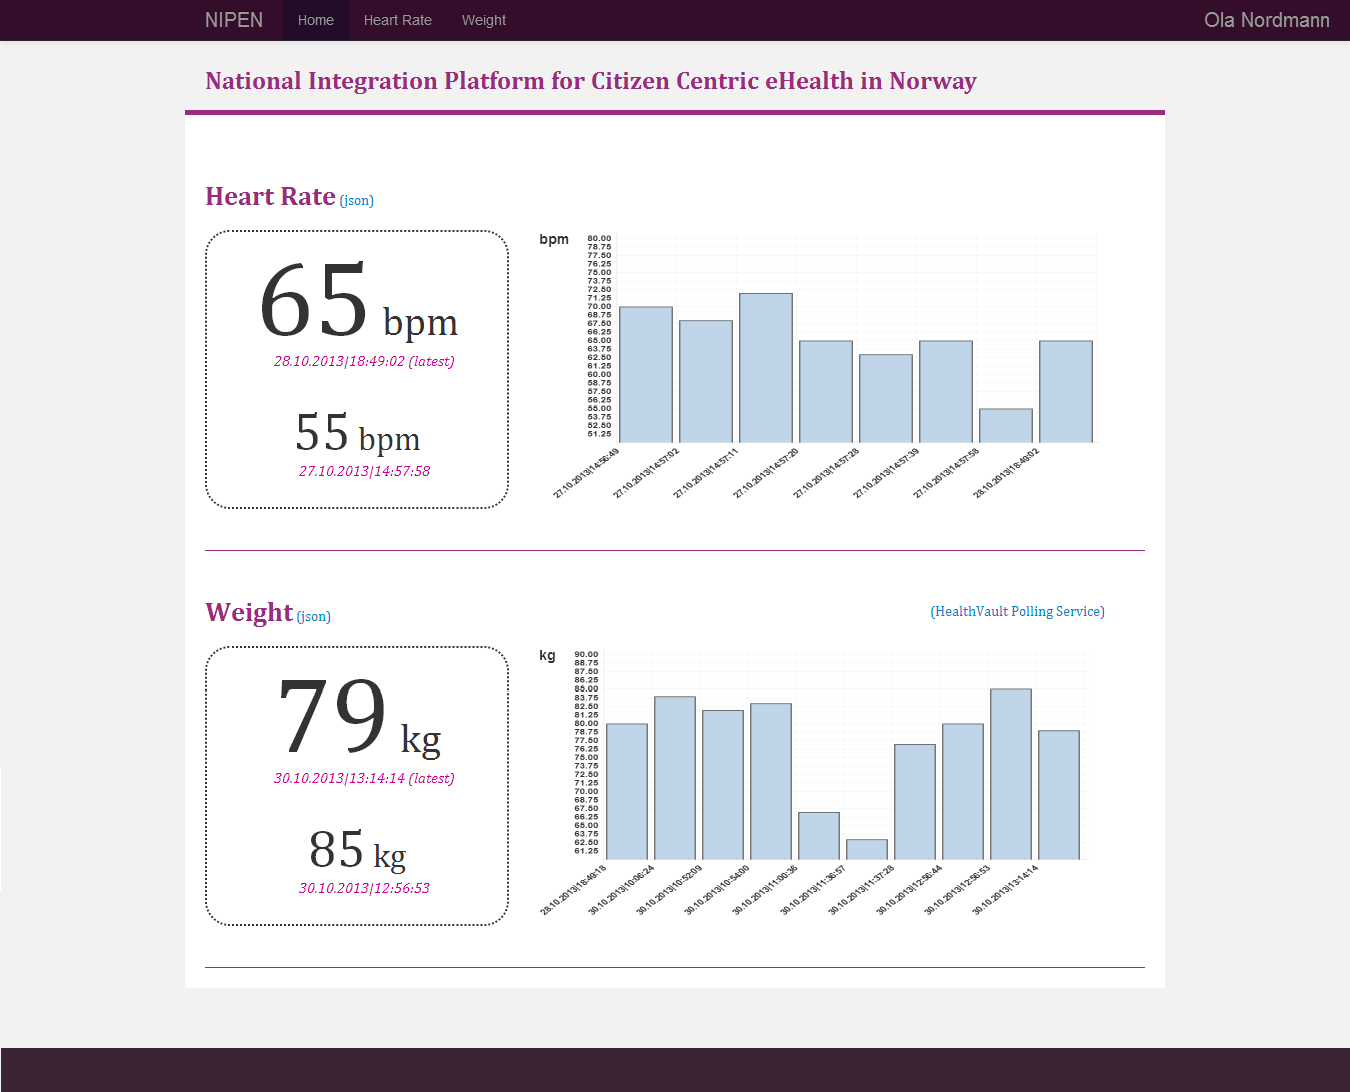
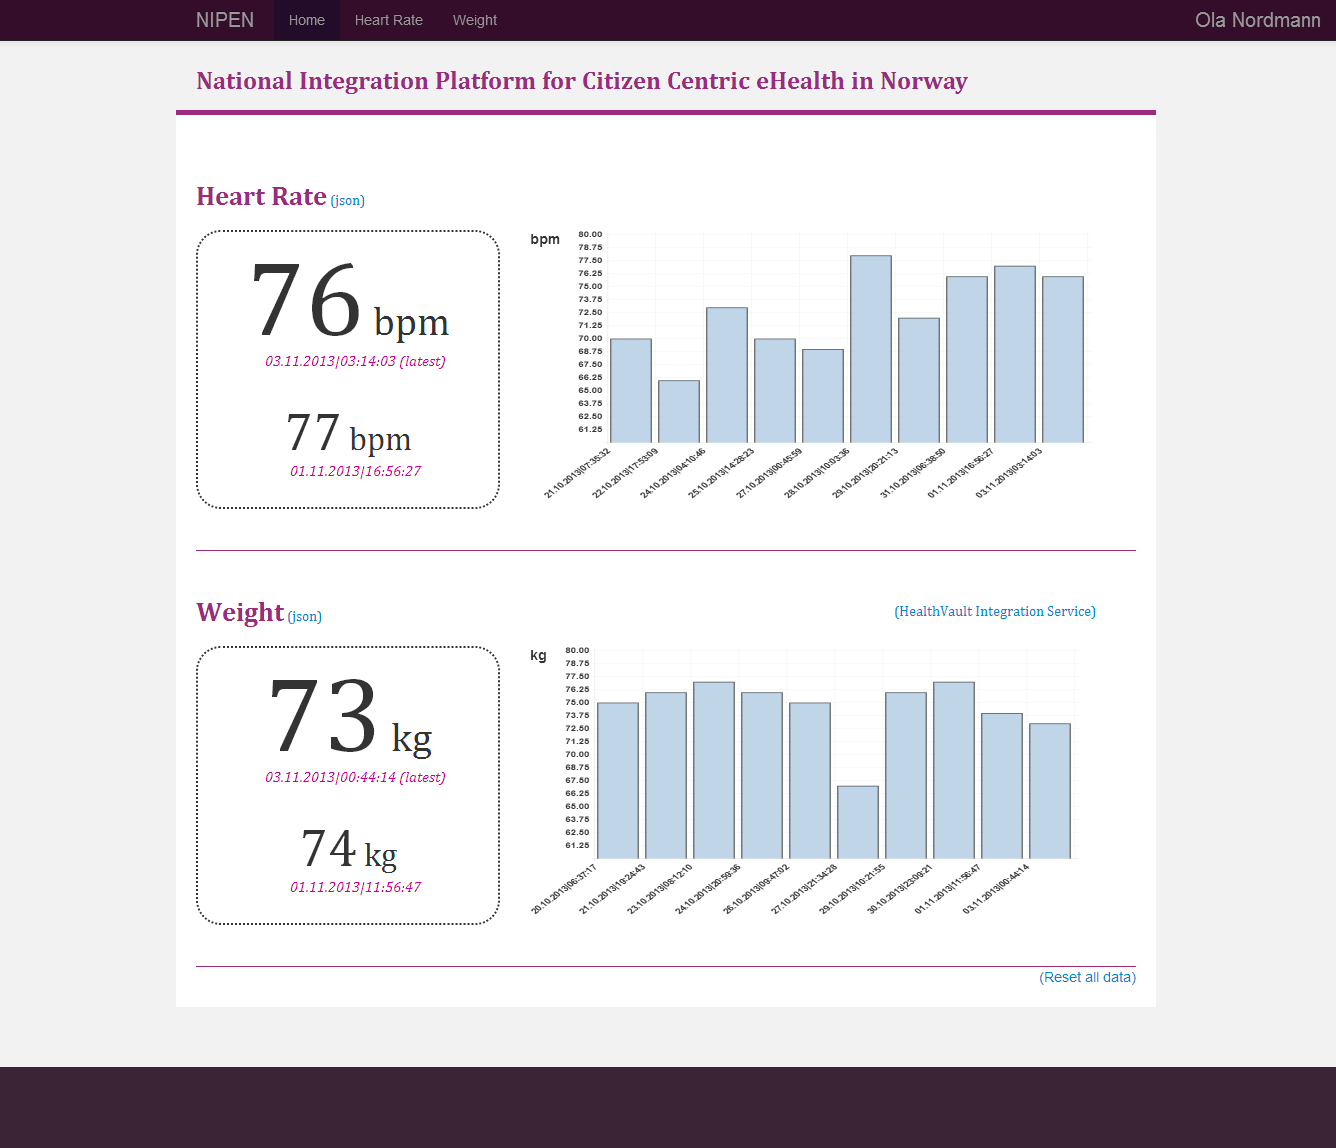
Added reset data functionality, changed name of polling service

diff --git a/nipen/src/main/webapp/WEB-INF/web-resources/scripts/nipen-script.js b/nipen/src/main/webapp/WEB-INF/web-resources/scripts/nipen-script.js
@@ -20,6 +20,9 @@ function startPolling(url, lastTimestamp, updateFunction, pollingKey) {
         url: url,
         dataType: "json",
         success: function(data) {
+            if (typeof data === 'undefined' || data.length == 0)
+                return;
+
             if (lastTimestamp != data[data.length-1].timestamp) {
                 lastTimestamp = data[data.length-1].timestamp;
                 data = getDataWithFormatedTimestamps(data);
@@ -61,7 +64,7 @@ function updateWeights(weightData) {
 }
 
 function visualizeData(divId, canvasId, data) {
-    if (data.length != 0)
+    if (data.length > 1)
         createNewestMeasureDisplay(divId, data[data.length-1], data[data.length-2]);
     createChart(canvasId, data);
 }
@@ -177,4 +180,104 @@ function hideAllDataTypes() {
     $("#newest-heart-rate").hide();
     $("#weight").hide();
     $("#newest-weight").hide();
+}
+
+function resetData() {
+    var isGoingToResetData = window.confirm("Are you sure you want to delete all data?");
+
+    if (isGoingToResetData) {
+        $.ajax({
+            type: "POST",
+            url: "http://mhealthdemo03.cloudapp.net/nipen/api/human/heart_rate/reset"
+        });
+        $.ajax({
+            type: "POST",
+            url: "http://mhealthdemo03.cloudapp.net/nipen/api/human/weight/reset"
+        });
+
+        updatePage();
+
+        var populateNewData = window.confirm("The database is now empty. Do you want to populate the charts with some mockup data?");
+        if (populateNewData)
+            populateDatabaseWithRandomValues();
+        else
+            location.reload();
+    }
+}
+
+function populateDatabaseWithRandomValues() {
+    var numValues = 10;
+
+    for (var i = 0; i < numValues; i++) {
+        var date = new Date(new Date().getTime() - (numValues-i) * 123456789);
+        addHeartRate(Math.floor((Math.random()*20)+60), date);
+        date = new Date(new Date().getTime() - (numValues-i) * 132446319);
+        addWeight(Math.floor((Math.random()*10)+70), date);
+    }
+}
+
+function addHeartRate(value, date) {
+    var timestampString;
+
+    if (typeof date === 'undefined')
+        timestampString = createTimestamp(new Date());
+    else
+        timestampString = createTimestamp(date);
+
+    var json = {
+        userId: 1,
+        timestamp: timestampString,
+        value: value,
+        unit: "bpm"
+    };
+
+    $.ajax({
+        type: "POST",
+        url: "http://mhealthdemo03.cloudapp.net/nipen/api/human/heart_rate",
+        data: JSON.stringify(json),
+        dataType: "json",
+        contentType: "application/json; charset=utf-8"
+    });
+}
+
+function addWeight(value, date) {
+    var timestampString;
+
+    if (typeof date === 'undefined')
+        timestampString = createTimestamp(new Date());
+    else
+        timestampString = createTimestamp(date);
+
+    var json = {
+        userId: 1,
+        timestamp: timestampString,
+        value: value,
+        unit: "kg"
+    };
+
+    $.ajax({
+        type: "POST",
+        url: "http://mhealthdemo03.cloudapp.net/nipen/api/human/weight",
+        data: JSON.stringify(json),
+        dataType: "json",
+        contentType: "application/json; charset=utf-8"
+    });
+}
+
+function createTimestamp(date) {
+    var year = date.getFullYear() + "";
+    var month = (parseInt(date.getMonth(), 10) + 1) + "";
+    var day = date.getDate() + "";
+    var hours = date.getHours() + "";
+    var minutes = date.getMinutes() + "";
+    var seconds = date.getSeconds() + "";
+
+    var stringTime = year;
+    stringTime += "-" + ((month.length == 1) ? "0" + month : month);
+    stringTime += "-" + ((day.length == 1) ? "0" + day : day);
+    stringTime += " " + ((hours.length == 1) ? "0" + hours : hours);
+    stringTime += ":" + ((minutes.length == 1) ? "0" + minutes : minutes);
+    stringTime += ":" + ((seconds.length == 1) ? "0" + seconds : seconds);
+
+    return stringTime;
 }

diff --git a/report/Chapters/Architecture.tex b/report/Chapters/Architecture.tex
@@ -17,7 +17,7 @@ The applications are listed below:
 	\item Front-end
 	\item Heart Rate Application
 	\item Weight Application
-	\item Weight Polling Service
+	\item HealthVault Integration Service
 \end{enumerate}
 
 NIPEN or NIP is our server application that consists of an API and a database.
@@ -25,8 +25,8 @@ This application is capable of receiving weight and heart rate data and store th
 It is also able to retrieve data from the database and then send it to our front-end, which then visualizes the information sent.
 The next three applications are able to send information to NIP.
 For instance the heart rate application is capable of measuring a heart rate and then send it to the integration platform.
-The two weight applications are able to fetch weight data from HealthVault and send it to NIP.
-The main difference between them is that the \textit{Weigh Application} runs on an Android device, while the \textit{Weight Polling Service} runs on a server or a computer.
+The two last applications are able to fetch weight data from HealthVault and send it to NIP.
+The main difference between them is that the \textit{Weigh Application} runs on an Android device, while the \textit{HealthVault Integration Service} runs on a server or a computer.
 In figure \ref{figure:abstract-architecture} an abstract architecture is given of how our applications communicate with each other.
 
 We didn't want to make our applications to complicated, duo to time restriction and lack of resources.
@@ -383,10 +383,10 @@ This application illustrates that it is possible to connect HealthVault into NIP
 If the user adds this application to HealthVault, it has access to all the weight values the user has added to the HealthVault account.
 Thus it is possible to thereafter send the values into NIPEN.
 
-\section{Weight Polling Service}
+\section{HealthVault Integration Service}
 
-The weight polling service is capable of retrieving values from HealthVault and send new values into NIPEN. 
-As the weight application, the weight polling service uses an example in the HealthVault Java SDK \cite{HealthVaultSDK} as its base.
+The HealthVault integration service is capable of retrieving values from HealthVault and send new values into NIPEN. 
+As the weight application, this service uses an example in the HealthVault Java SDK \cite{HealthVaultSDK} as its base.
 In the SDK folder it is located inside \textit{java-1.4.2} folder.
 The functionality we have implemented into this application is a polling service and the interactions with NIPEN.
 We have also made some cosmetic changes to the web pages the example provided.
@@ -406,21 +406,21 @@ This is illustrated in figure \ref{figure:webservice-not-polling} and \ref{figur
 \begin{figure}[H]
 \centering
 \includegraphics[scale=0.4]{../Figures/webservice-login.png}
-\caption{Weight Polling Service login page}
+\caption{HealthVault Integration Service login page}
 \label{figure:webservice-login}
 \end{figure}
 
 \begin{figure}[H]
 \centering
 \includegraphics[scale=0.4]{../Figures/webservice-not-polling.png}
-\caption{Weight Polling Service not polling page}
+\caption{HealthVault Integration Service not polling page}
 \label{figure:webservice-not-polling}
 \end{figure}
 
 \begin{figure}[H]
 \centering
 \includegraphics[scale=0.4]{../Figures/webservice-polling.png}
-\caption{Weight Polling Service polling page}
+\caption{HealthVault Integration Service polling page}
 \label{figure:webservice-polling}
 \end{figure}
 
@@ -442,6 +442,6 @@ The polling service is illustrated in figure \ref{figure:weight-polling-service}
 \begin{figure}[h]
 \centering
 \includegraphics[scale=0.8]{../Figures/weight-polling-service.png}
-\caption{Weight polling service sequence diagram}
+\caption{HealthVault Integration Service sequence diagram}
 \label{figure:weight-polling-service}
 \end{figure}

diff --git a/nipen/src/main/java/no/helsenorge/nipen/controller/HeartRateController.java b/nipen/src/main/java/no/helsenorge/nipen/controller/HeartRateController.java
@@ -28,6 +28,12 @@ public class HeartRateController {
         heartRateService.insertHeartRate(new HeartRateJsonParser(jsonHeartRate).toHeartRate());
     }
 
+    @ResponseStatus(HttpStatus.OK)
+    @RequestMapping(value="/api/human/heart_rate/reset", method = RequestMethod.POST)
+    public void resetHeartRates() {
+        heartRateService.deleteHeartRates();
+    }
+
     // For testing
     @RequestMapping(value="/api/human/test", method =  RequestMethod.GET)
     @ResponseBody

diff --git a/nipen/src/main/java/no/helsenorge/nipen/controller/WeightController.java b/nipen/src/main/java/no/helsenorge/nipen/controller/WeightController.java
@@ -28,4 +28,10 @@ public class WeightController {
     public void addWeight(@RequestBody String jsonWeight) {
         weightService.insertWeight(new WeightJsonParser(jsonWeight).toWeight());
     }
+
+    @ResponseStatus(HttpStatus.OK)
+    @RequestMapping(value="/api/human/weight/reset", method = RequestMethod.POST)
+    public void resetHeartRates() {
+        weightService.deleteWeights();
+    }
 }

diff --git a/report/Chapters/Conclusion.tex b/report/Chapters/Conclusion.tex
@@ -49,7 +49,8 @@ We also tried to make it look like the clients page by using their color scheme.
 
 \begin{figure}[H]
 \centering
-\includegraphics[scale=0.50]{../Figures/front-endfinal.png}
+%\includegraphics[scale=0.50]{../Figures/front-endfinal.png}
+\includegraphics[scale=0.4]{../Figures/frontend-main-page.png}
 \caption{Front-end final}
 \label{figure:front-endfinal}
 \end{figure}

diff --git a/nipen/src/main/java/no/helsenorge/nipen/database/HeartRateDAO.java b/nipen/src/main/java/no/helsenorge/nipen/database/HeartRateDAO.java
@@ -45,4 +45,8 @@ public final class HeartRateDAO {
     public void deleteHeartRate(long heartRateId) {
         jdbcTemplate.update("DELETE FROM heart_rate WHERE id=?", heartRateId);
     }
+
+    public void deleteHeartRates() {
+        jdbcTemplate.update("DELETE FROM heart_rate");
+    }
 }

diff --git a/nipen/src/main/java/no/helsenorge/nipen/service/HeartRateServiceImpl.java b/nipen/src/main/java/no/helsenorge/nipen/service/HeartRateServiceImpl.java
@@ -32,4 +32,9 @@ public class HeartRateServiceImpl implements HeartRateService {
     public void deleteHeartRate(long id) {
         heartRateDAO.deleteHeartRate(id);
     }
+
+    @Override
+    public void deleteHeartRates() {
+        heartRateDAO.deleteHeartRates();
+    }
 }

diff --git a/nipen/src/main/java/no/helsenorge/nipen/database/WeightDAO.java b/nipen/src/main/java/no/helsenorge/nipen/database/WeightDAO.java
@@ -44,4 +44,8 @@ public class WeightDAO {
     public void deleteWeight(long weightId) {
         jdbcTemplate.update("DELETE FROM weight WHERE id=?", weightId);
     }
+
+    public void deleteWeights() {
+        jdbcTemplate.update("DELETE FROM weight");
+    }
 }

diff --git a/nipen/src/main/java/no/helsenorge/nipen/service/WeightServiceImpl.java b/nipen/src/main/java/no/helsenorge/nipen/service/WeightServiceImpl.java
@@ -32,4 +32,9 @@ public class WeightServiceImpl implements WeightService {
     public void deleteWeight(long id) {
         weightDAO.deleteWeight(id);
     }
+
+    @Override
+    public void deleteWeights() {
+        weightDAO.deleteWeights();
+    }
 }

diff --git a/nipen/src/main/java/no/helsenorge/nipen/service/HeartRateService.java b/nipen/src/main/java/no/helsenorge/nipen/service/HeartRateService.java
@@ -8,4 +8,5 @@ public interface HeartRateService {
     void insertHeartRate(HeartRate heartRate);
     List<HeartRate> getHeartRates();
     void deleteHeartRate(long id);
+    void deleteHeartRates();
 }

diff --git a/nipen/src/main/java/no/helsenorge/nipen/service/WeightService.java b/nipen/src/main/java/no/helsenorge/nipen/service/WeightService.java
@@ -8,4 +8,5 @@ public interface WeightService {
     void insertWeight(Weight weight);
     List<Weight> getWeights();
     void deleteWeight(long id);
+    void deleteWeights();
 }
